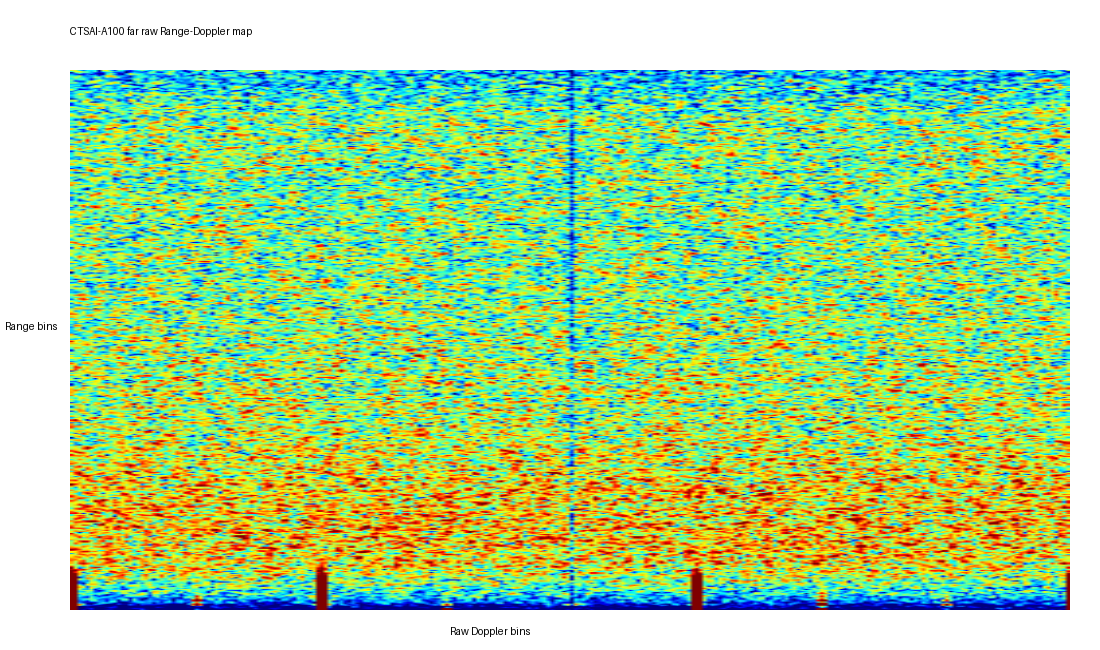
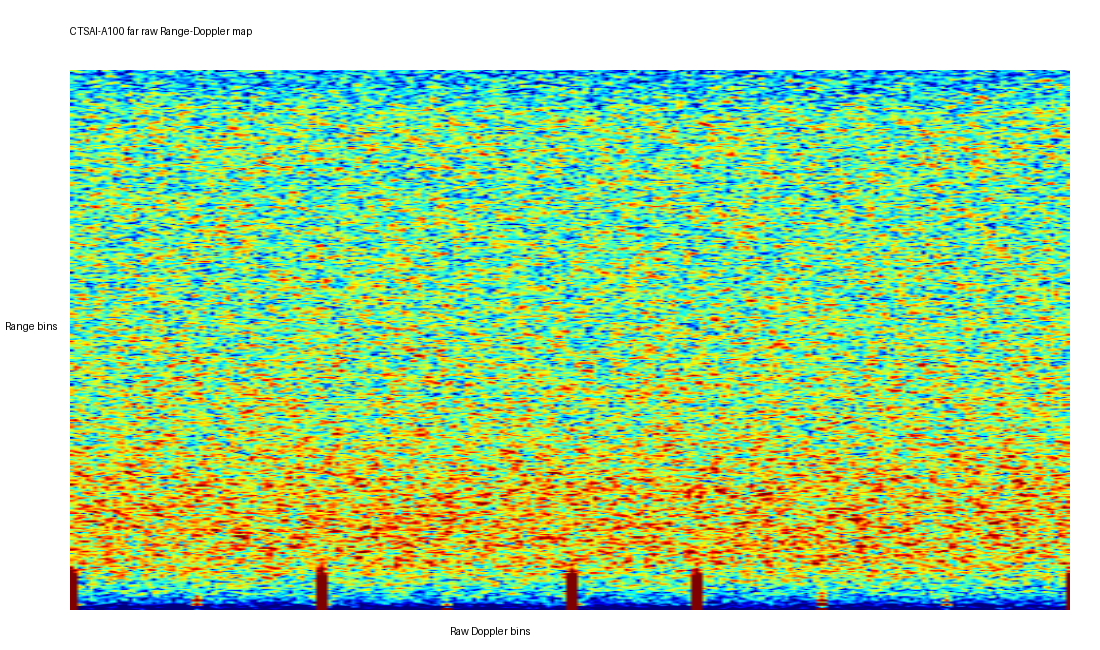
fix: preserve unresolved DDMA raw Doppler spectrum

Changed region(s): [[0.4945, 0.0923, 0.5255, 0.9538]]

diff --git a/community/projects/a100-matlab-adc-pipeline-validation/validator/run_reference_validation.py b/community/projects/a100-matlab-adc-pipeline-validation/validator/run_reference_validation.py
@@ -146,7 +146,9 @@ def save_results(name: str, cfg: dict, files: list[Path], output: Path) -> None:
     adc = load_adc(files, cfg)
     range_fft = np.fft.fft(adc*np.hanning(adc.shape[0])[:, None, None],
                            cfg["nfft"], axis=0)[:cfg["nfft"]//2]
-    range_fft -= range_fft.mean(axis=1, keepdims=True)
+    # Unresolved DDMA coding can move a stationary TX response away from the
+    # center bin. Preserve the complete combined raw spectrum rather than
+    # applying slow-time mean or center-bin suppression.
     rd = np.fft.fftshift(np.fft.fft(
         range_fft*np.hanning(cfg["chirps"])[None, :, None],
         cfg["doppler_nfft"], axis=1), axes=1)
@@ -182,6 +184,7 @@ def save_results(name: str, cfg: dict, files: list[Path], output: Path) -> None:
                f"adc_shape={adc.shape}\nrd_shape={rd.shape}\n"
                f"finite={np.isfinite(power_db).all()}\ndetections={len(rows)}\n"
                "mimo_mode=unresolved_ddma\nmetadata_complete=False\n"
+               "slow_time_mean_removal=False\ncenter_bin_suppression=False\n"
                "physical_velocity_valid=False\nangle_valid=False\n")
     (output/"validation.txt").write_text(summary, encoding="utf-8")
     print(summary, end="")

diff --git a/community/projects/a100-matlab-adc-pipeline-validation/main.m b/community/projects/a100-matlab-adc-pipeline-validation/main.m
@@ -1,7 +1,7 @@
-function detections = run_ctsai_a100_demo(profileName)
-%RUN_CTSAI_A100_DEMO Reproducible ADC signal-processing entry point.
-%   run_ctsai_a100_demo() processes the near profile.
-%   run_ctsai_a100_demo('far') processes the far profile.
+function detections = main(profileName)
+%MAIN Reproducible ADC signal-processing entry point.
+%   main() processes the near profile.
+%   main('far') processes the far profile.
 
 if nargin < 1
     profileName = 'near';
@@ -58,6 +58,8 @@ fprintf(fid, 'source_config=%s\n', cfg.sourceConfigFile);
 fprintf(fid, 'tx_groups=%s\n', mat2str(cfg.txGroups));
 fprintf(fid, 'mimo_mode=%s\n', cfg.mimo.mode);
 fprintf(fid, 'metadata_complete=%d\n', cfg.mimo.metadataComplete);
+fprintf(fid, 'slow_time_mean_removal=0\n');
+fprintf(fid, 'center_bin_suppression=0\n');
 fprintf(fid, 'physical_velocity_valid=%d\n', cfg.mimo.velocityValid);
 fprintf(fid, 'angle_valid=%d\n', cfg.mimo.angleValid);
 fprintf(fid, 'missing_metadata:\n');

diff --git a/community/projects/a100-matlab-adc-pipeline-validation/src/process_radar_cube.m b/community/projects/a100-matlab-adc-pipeline-validation/src/process_radar_cube.m
@@ -8,8 +8,9 @@ windowed = adc .* reshape(rangeWindow, [], 1, 1);
 rangeFftFull = fft(windowed, cfg.rangeNfft, 1);
 rangeFft = rangeFftFull(1:cfg.rangeNfft/2, :, :);
 
-% Slow-time mean removal suppresses the static/zero-Doppler component.
-rangeFft = rangeFft - mean(rangeFft, 2);
+% Do not remove the slow-time mean while DDMA coding is unresolved. DDMA
+% modulation shifts each TX response, so the physical zero-velocity response
+% cannot be assumed to occupy the center bin of the combined raw spectrum.
 dopplerInput = rangeFft .* reshape(dopplerWindow, 1, [], 1);
 rdCube = fftshift(fft(dopplerInput, cfg.dopplerNfft, 2), 2);
 

diff --git a/community/projects/a100-matlab-adc-pipeline-validation/docs/CTSAI-A100_MATLAB_ADC_processing.md b/community/projects/a100-matlab-adc-pipeline-validation/docs/CTSAI-A100_MATLAB_ADC_processing.md
@@ -31,7 +31,7 @@ four RX text files + official HXX profile
   -> uint32/int16 unpacking and dimension validation
   -> per-chirp DC removal and range window
   -> Range FFT
-  -> slow-time mean removal and Doppler window
+  -> Doppler window (without slow-time mean removal)
   -> raw Doppler FFT and fftshift
   -> four-RX noncoherent power integration
   -> 2-D CA-CFAR and local-maximum suppression
@@ -49,13 +49,15 @@ FFT length. Only the positive half is retained for real ADC input.
 
 ## Doppler FFT and DDMA validity
 
-For every range bin, the slow-time samples are mean-subtracted, windowed and
-transformed. `fftshift` places the zero raw Doppler bin at the center. A nominal
-TDM velocity scale can be derived from wavelength, chirp period and coherent
-chirp count, but review feedback identified DDMA structure in the public capture
-that is not described by the public TDM-style `tx_groups`. The example therefore
-retains raw Doppler-bin indices and does not export the nominal TDM scale as
-measured velocity.
+For every range bin, the slow-time samples are windowed and transformed without
+mean subtraction. `fftshift` places the raw Fourier index origin at the center,
+but unresolved DDMA phase coding means this is not a known physical
+zero-velocity location for the combined TX spectrum. Consequently, the example
+does not suppress the center bin. A nominal TDM velocity scale can be derived
+from wavelength, chirp period and coherent chirp count, but review feedback
+identified DDMA structure in the public capture that is not described by the
+public TDM-style `tx_groups`. The example therefore retains raw Doppler-bin
+indices and does not export the nominal TDM scale as measured velocity.
 
 Correct DDMA separation and kinematic recovery require the following public
 metadata:
@@ -119,6 +121,10 @@ Results depend on capture scene, waveform configuration, MIMO coding, mounting,
 calibration and processing parameters. This reference does not claim physical
 velocity, azimuth, maximum detection range, accuracy, false-alarm performance or
 product firmware equivalence for the unresolved public DDMA capture.
+
+The committed diagnostic results were produced by the independent NumPy
+validator from the public captures. Native MATLAB execution and radar hardware
+testing are not claimed.
 
 ## Extensions supported by the design
 

diff --git a/community/projects/a100-matlab-adc-pipeline-validation/README.md b/community/projects/a100-matlab-adc-pipeline-validation/README.md
@@ -21,10 +21,14 @@ it ships an independent NumPy validator that mirrors the same equations.
 
 ## 2. Environment
 
-- Hardware: CTSAI-A100 radar;
+- Hardware: not required for the committed public-data example;
 - Configuration: official `sensor_config_init0.hxx` / `sensor_config_init1.hxx`;
 - MATLAB R2020b or later (only base MATLAB functions are used);
 - Python 3.12 (NumPy 2.3, Pillow 12.2) for the independent validator.
+
+The committed figures, CSV files and logs were generated by the NumPy validator
+from the repository's public captures. No radar hardware test or native MATLAB
+execution is claimed by this project.
 
 ## 3. Data
 
@@ -36,6 +40,11 @@ with this repository:
 
 This project does not bundle or redistribute any private data. Use your own
 captures in place of the public ones if you do not have access to them.
+
+No slow-time mean subtraction or center-bin suppression is applied to the raw
+Doppler spectrum. With unresolved DDMA phase coding, a stationary target's TX
+components need not occupy the center bin, so suppressing that bin could remove
+valid signal.
 
 ## 4. Project layout
 
@@ -98,6 +107,8 @@ leave `velocity_mps` / `angle_deg` empty with `kinematics_valid=False`.
   implemented.
 - DDMA decoding and calibrated virtual-array angle output are disabled until the
   required metadata is publicly available.
+- Static-clutter suppression is disabled while the DDMA zero-velocity bin
+  locations are unresolved.
 - This example does not implement proprietary interference cancellation, phase
   calibration, velocity ambiguity resolution or product firmware logic.
 

diff --git a/community/projects/a100-matlab-adc-pipeline-validation/validator/README.md b/community/projects/a100-matlab-adc-pipeline-validation/validator/README.md
@@ -7,6 +7,9 @@ and CA-CFAR equations with NumPy.
 The validation deliberately does not turn unresolved DDMA bins into physical
 velocity or angle. Generated CSV files retain raw Doppler bins and leave
 `velocity_mps` and `angle_deg` empty with `kinematics_valid=False`.
+It also performs no slow-time mean subtraction or center-bin suppression,
+because unresolved DDMA coding means the combined spectrum center is not a
+known physical zero-velocity location.
 
 Run from the repository root:
 
